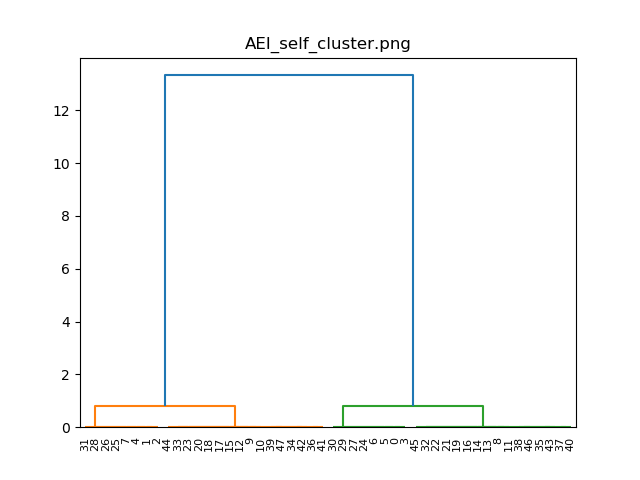
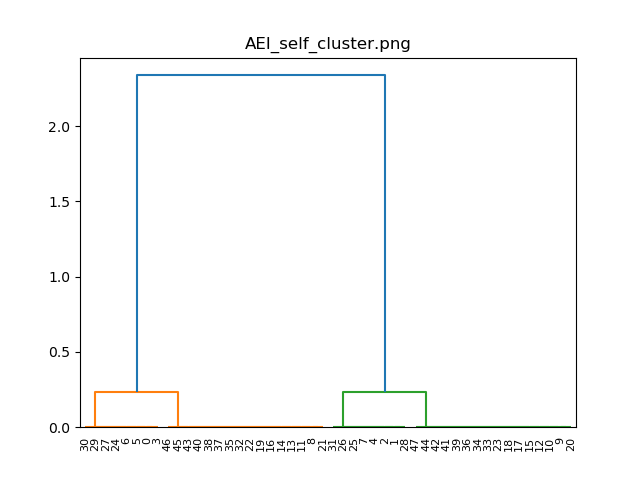
remake 'make_self_clustering'

diff --git a/make_self_clustering.py b/make_self_clustering.py
@@ -1,10 +1,9 @@
-import copy,os,glob
+import copy,os,glob,re,subprocess,math
 import matplotlib.pyplot as plt
-from scipy.cluster.hierarchy import linkage, dendrogram
+from scipy.cluster.hierarchy import linkage, dendrogram,fcluster
 import pandas as pd
-import math
-import copy
 from scipy.spatial.distance import squareform
+
 
 def make_sort_distance(selfcsv,csvn='sort_self_distanc.csv'):
     df=pd.read_csv(selfcsv,index_col=['isite_i','isite_j','pattern_i','pattern_j'])
@@ -28,30 +27,26 @@ def make_sort_distance(selfcsv,csvn='sort_self_distanc.csv'):
     standdf.to_csv(csvn)
     return matrixdf
 
-def make_self_clusering(dir,csvn='sort_self_distanc.csv',pngn='cluster.png',method='ward'):
-    cwd=os.getcwd()
-    os.chdir(dir)
+def make_self_clusering(csvn='sort_self_distanc.csv',pngn='cluster.png',method='single',fclusternum=0.0):
     selfcsv=glob.glob('*self_distance.csv')[0]
     matrixdf=make_sort_distance(selfcsv,csvn)
-    result= linkage(squareform(matrixdf), method = method)
-    dendrogram(result,labels=matrixdf.index.to_list())
+    result=linkage(squareform(matrixdf), method = method)
+    idx=matrixdf.index.to_list()
+    dendrogram(result,labels=idx)
     plt.title(pngn)
     plt.savefig(pngn)
     plt.close()
-    os.chdir(cwd)
-    return result
+    result_=[(idx[i],num) for i,num in enumerate(list(fcluster(result,fclusternum)))]
+    return pd.DataFrame(result_,columns=['isite','fclusternum'])
 
-
-import subprocess
 cifdir_ = subprocess.getoutput("find {0} -type d | sort".format('result/sorttest'))
 cifdir = cifdir_.split('\n')
 del cifdir[0]
-import re
+cwd=os.getcwd()
 for i in cifdir:
     cifid=re.split('/',i)[-1]
     print(cifid)
-    sadress=copy.deepcopy(i)
-    scifid=copy.deepcopy(cifid)
-result=make_self_clusering(sadress,csvn='{}_sort_self_distanc.csv'.format(scifid),pngn='tt_{}_self_cluster.png'.format(scifid),method='single')
-from scipy.cluster.hierarchy import fcluster
-print(fcluster(result))
+    os.chdir(i)
+    result=make_self_clusering(csvn='{}_sort_self_distanc.csv'.format(cifid),pngn='{}_self_cluster.png'.format(cifid))
+    result.to_csv('{}_fclusternum=0.0'.format(cifid))
+    os.chdir(cwd)

diff --git a/make_picup_cluster.py b/make_picup_cluster.py
@@ -1,0 +1,18 @@
+import copy,os,glob,re,subprocess
+import pandas as pd
+
+
+cifdir_ = subprocess.getoutput("find {0} -type d | sort".format('result/sorttest'))
+cifdir = cifdir_.split('\n')
+del cifdir[0]
+cwd=os.getcwd()
+for i in cifdir:
+    cifid=re.split('/',i)[-1]
+    if cifid!='AEI':
+        continue
+    print(cifid)
+    os.chdir(i)
+    csvn=glob.glob('*fcluster*')[0]
+    info=pd.read_csv(csvn,index_col=0)
+    print(info.head(5))
+    os.chdir(cwd)
